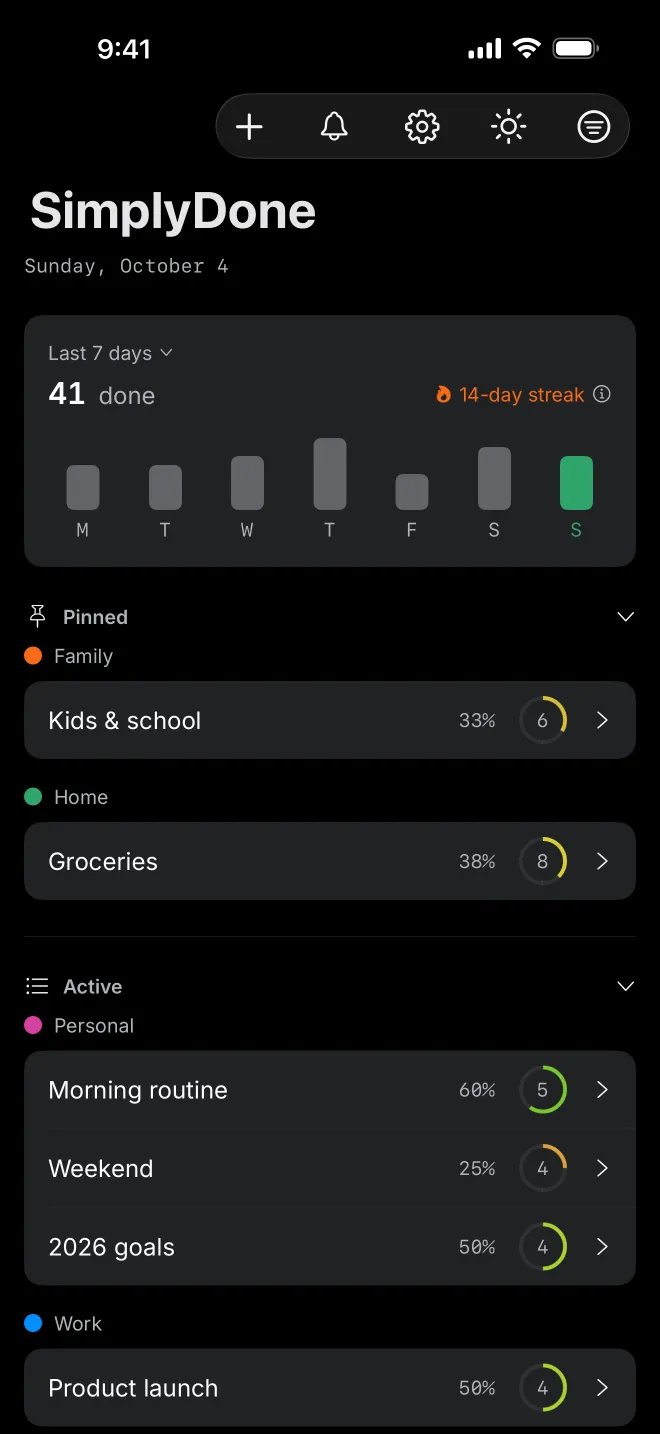
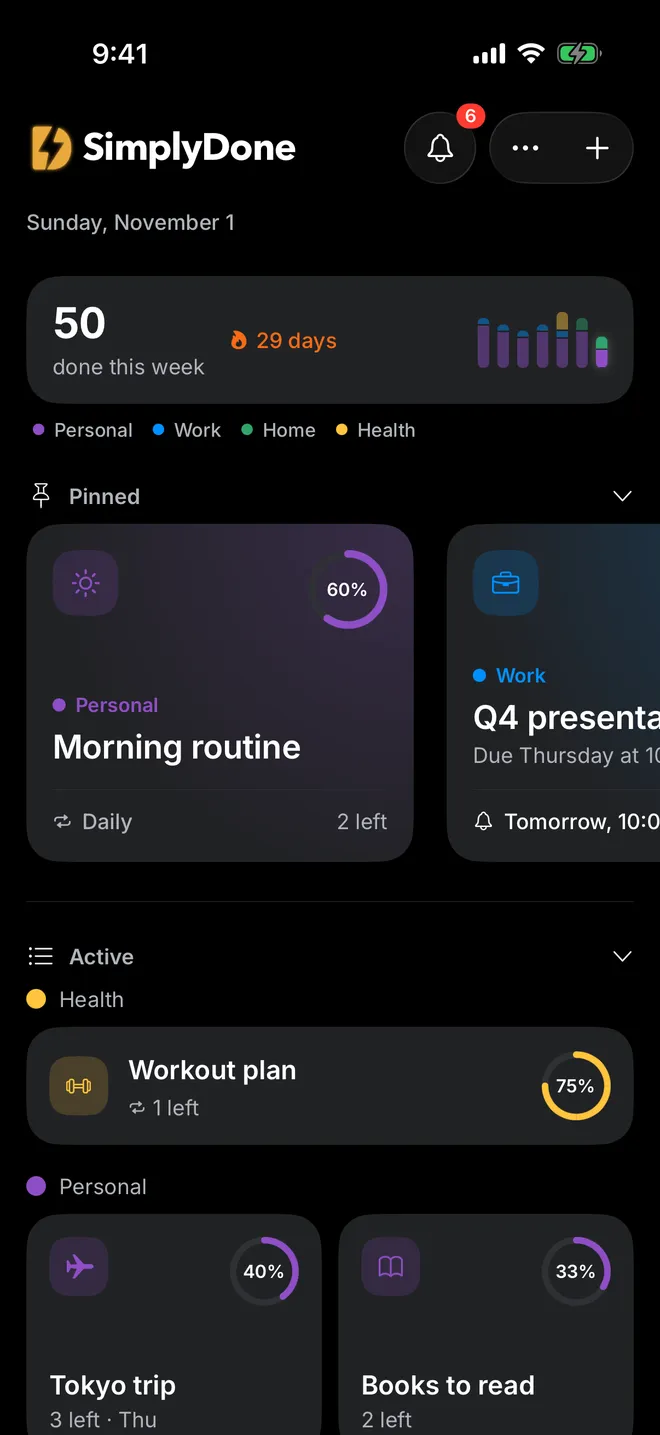
chore: SimplyDone card matches 2.0.0
- SimplyDone icon is the new D-bolt
- App preview and the social share image show the 2.0 main screen
- Status line says SimplyDone 2.0 is out now on the App Store
- Meta line says ads can be removed with a one-time purchase, as on the SimplyDone site
- Screenshot alt text and height match the new capture

diff --git a/src/pages/index.tsx b/src/pages/index.tsx
@@ -65,7 +65,7 @@ export default function IndexPage() {
             <h1>Simple apps for everyday problems</h1>
             <p className="lead">A software lab building focused, practical apps.</p>
             <a className="status" href="#apps">
-              SimplyDone is out now on the App Store
+              SimplyDone 2.0 is out now on the App Store
             </a>
           </section>
 
@@ -82,7 +82,7 @@ export default function IndexPage() {
                 </div>
               </div>
               <p>Lists, tasks, reminders and routines, kept simple.</p>
-              <p className="app-meta">Free · iPhone and iPad · Pro is a one-time purchase</p>
+              <p className="app-meta">Free · iPhone and iPad · Remove ads with a one-time purchase</p>
               <div className="actions">
                 <a className="button button-solid" href={SIMPLYDONE_APP_STORE_URL}>
                   App Store
@@ -95,9 +95,9 @@ export default function IndexPage() {
             <div className="phone">
               <img
                 src={simplyDoneScreenshot}
-                alt="SimplyDone's main screen in dark mode, with the tasks-done and streak card above pinned and active lists in color groups"
+                alt="SimplyDone's main screen in dark mode, with this week's tasks done by group and the streak above pinned and active lists as tiles"
                 width={660}
-                height={1434}
+                height={1435}
                 loading="lazy"
               />
             </div>
